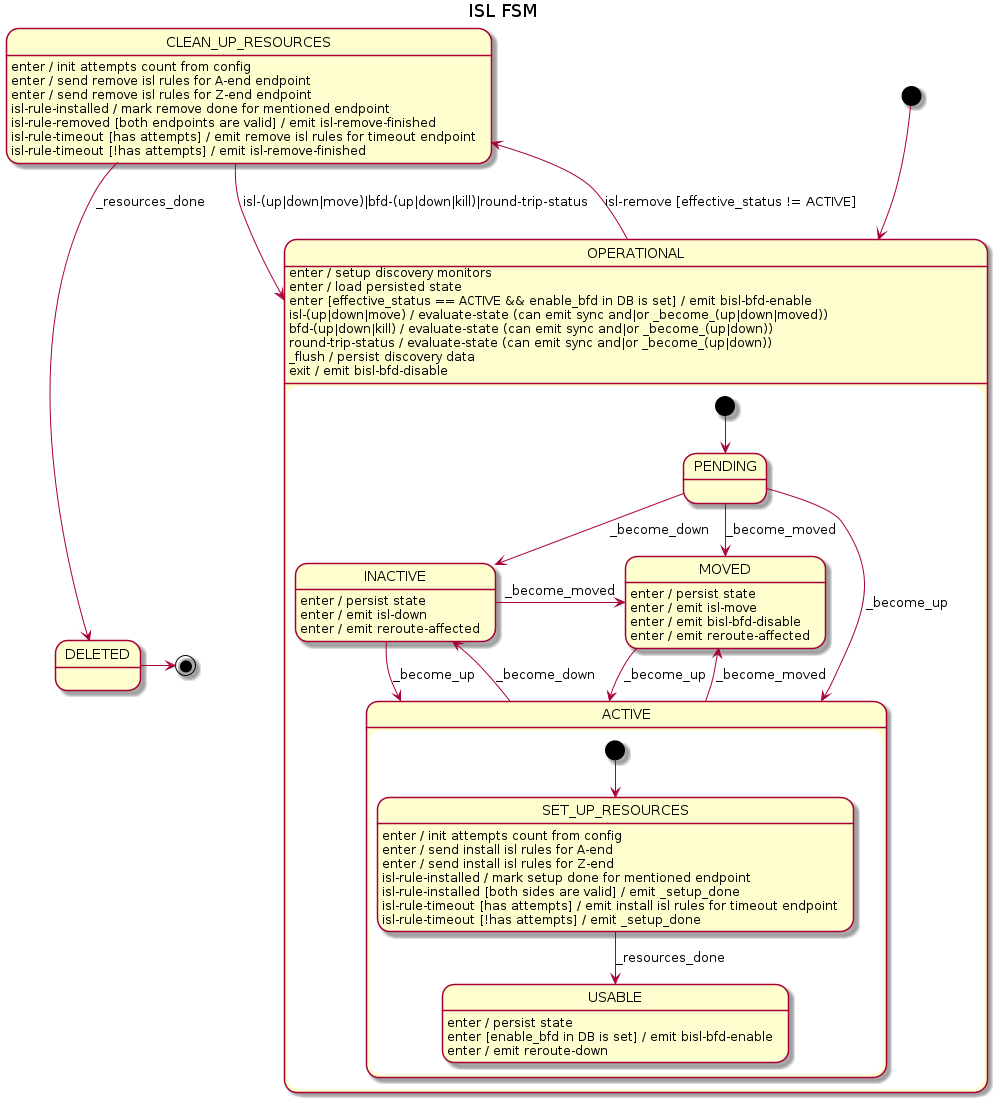
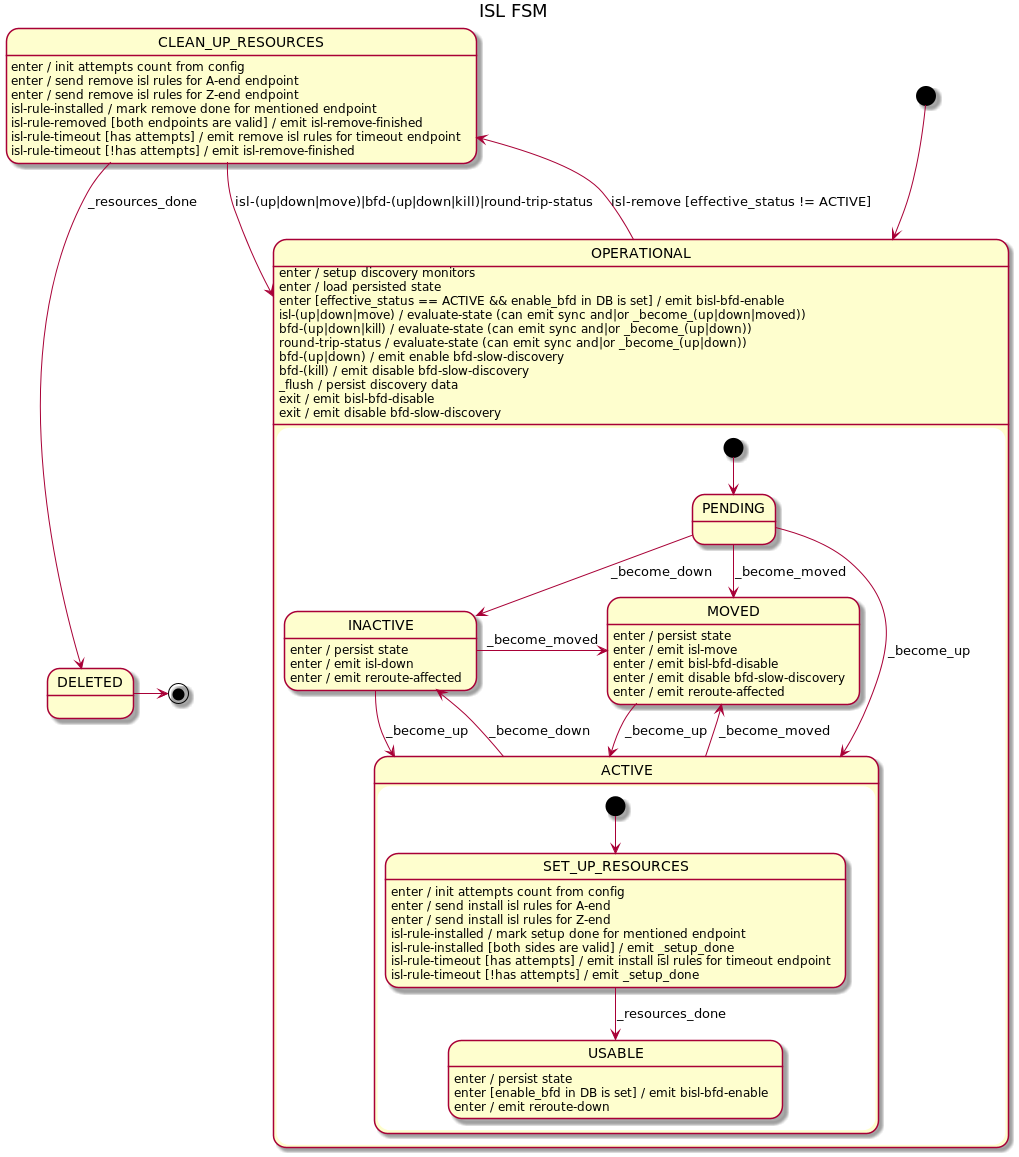
Design for Smart discovery feature

diff --git a/docs/design/network-discovery/README.md b/docs/design/network-discovery/README.md
@@ -38,6 +38,16 @@ packets/event for each "link" - one for each direction. And because it repeats
 periodically Open-Kilda can "detect" ISL-fails i.e. link-corruptions. And react
 on them.
 
+Network topology will/can use different delays between discovery requests. 
+These delay depends on discovery history for specific switch+port:
+ - if the last discovery was unsuccessful for port without links, 
+ then the interval for the next discovery messages will be increased 
+ until we get a successful one;
+ - if BFD is active on this endpoint, then regardless of whether the discovery 
+ is successful or not, the interval for discovery messages will be increased.
+ 
+This is done in order to reduce the number of PACKET_OUT/PACKET_IN messages.
+
 Only discovery events is not enough to "discover" all links in network, we need
 to "know" the list of switches and list of their ports. This info is collected
 from OF async messages - switch-add/remove, port-add/up/down/del.
